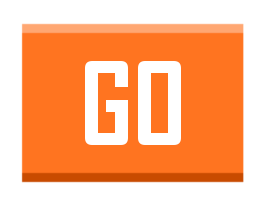
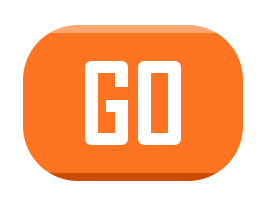
added sign out functinality, redesigned UI buttons

Changed region(s): [[0.0593, 0.1188, 0.9185, 0.9208]]

diff --git a/static/js/modules/scene/listlevels.js b/static/js/modules/scene/listlevels.js
@@ -30,6 +30,12 @@ class ListLevels extends Phaser.Scene {
         this.add.text(26, 90, "- LEVEL SELECTION -", 
             {fontFamily: 'Teko', fontSize: '40pt', color: '#000000'});
 
+        this.greeting = this.add.text(26, 30, "Welcome Back,", 
+            {fontFamily: 'Teko', fontSize: '28pt', color: '#000000'});
+
+        this.usernameText = this.add.text(26, 65, data.gameObj.animalName, 
+            {fontFamily: 'Teko', fontSize: '15pt', color: '#000000'});
+
         this.graphics.fillStyle(0xFF8040, 0.4);
         this.graphics.fillRect(18, 157, 320, 45);
 
@@ -38,11 +44,22 @@ class ListLevels extends Phaser.Scene {
 
 
         // Level Selection UI/Functionality
-        this.leftLevelBtn = this.add.image(60, 620, "left_arrow_btn").setScale(0.25).setInteractive();
-        this.rightLevelBtn = this.add.image(300, 620, "right_arrow_btn").setScale(0.25).setInteractive();
-        this.goBtn = this.add.image(180, 620, "go_btn").setScale(0.40).setInteractive();
+        this.leftLevelBtn = this.add.image(60, 600, "left_arrow_btn").setScale(0.25).setInteractive();
+        this.rightLevelBtn = this.add.image(300, 600, "right_arrow_btn").setScale(0.25).setInteractive();
+        this.goBtn = this.add.image(180, 600, "go_btn").setScale(0.40).setInteractive();
         this.backBtn = this.add.image(50, 690, "back_btn").setScale(0.30).setInteractive();
+        this.signoutBtn = this.add.image(250, 690, "signout_btn").setScale(0.5).setInteractive();
 
+        // Leaderboard UI
+        // Leaderboard will only appear as an option if you're signed in
+        if (data.gameObj.userName != "" && data.gameObj.SessionID != "") {
+            this.sessionbtn = this.add.image(290, 35, "leadererboard_btn").setScale(0.33).setInteractive();
+            this.sessionbtn.addListener("pointerup", this.bindFn(() => {
+                this.showSessionLeaderboard(data.gameObj.userName, data.gameObj.sessionID, "score", 10)
+            }));
+        }
+
+        // Left and Right
         this.leftLevelBtn.on("pointerdown", () => {
             this.browseLeft();
         });
@@ -51,14 +68,39 @@ class ListLevels extends Phaser.Scene {
             this.browseRight();
         });
 
+        // Go Button
         this.goBtn.on("pointerdown", () => {
             if (this.levels[this.curLevel].unlocked == true) {
                this.startPrelevel(this.curLevel); 
             }
         })
 
+        // Back Button
         this.backBtn.on("pointerdown", () => {
             this.backButtondown();
+        })
+
+        // Signout Button
+        this.signoutBtn.on("pointerdown", () => {
+            cdapi.signout(data.gameObj.userName, data.gameObj.sessionID).then(result => {
+                console.log(result);
+
+                // Removes leaderboard button
+                this.sessionbtn.setAlpha(0);
+                this.sessionbtn.setInteractive(false);
+
+                // changes greeting
+                this.usernameText.text = "";
+                this.greeting.text = "Not Signed In";
+
+                // Deletes their username and seesion
+                data.gameObj.session = "";
+                data.gameObj.userNamwe = "";
+
+                // removes sign out button
+                this.signoutBtn.setAlpha(0);
+                this.signoutBtn.setInteractive(0);
+            })
         })
 
         // Level Selection Descriptors
@@ -81,17 +123,6 @@ class ListLevels extends Phaser.Scene {
         this.userIcn = this.add.image(40, 30, "signin_user_icn").setScale(0.15).setTintFill(0xDCF3FD).setVisible(false);
         */
         //this.updateSignInIcon();
-
-        // Leaderboard UI
-        // Leaderboard will only appear as an option if you're signed in
-        if (data.gameObj.userName != "" && data.gameObj.SessionID != "") {
-            this.add.text(80, 60, "LEADERS", 
-            {fontFamily: 'Teko', fontSize: '16pt', color: '#000000'});
-            this.sessionbtn = this.add.image(104, 30, "leadererboard_btn").setScale(0.4).setInteractive();
-            this.sessionbtn.addListener("pointerup", this.bindFn(() => {
-                this.showSessionLeaderboard(data.gameObj.sessionID, "score", 10)
-            }));
-        }
 
         // Functionality to skip DOGMA animation, also fades in content.
         let that = this;
@@ -261,7 +292,7 @@ class ListLevels extends Phaser.Scene {
         }
     }
 
-    showSessionLeaderboard(sessionID, category, rows) {
+    showSessionLeaderboard(userName, sessionID, category, rows) {
         if (this.domOverlay) {
             return;
         }
@@ -289,6 +320,7 @@ class ListLevels extends Phaser.Scene {
                 let table = this.domOverlay.getChildByID("sessions-leaderboard-table");
     
                 this.domOverlay.getChildByID("sessions-name-displ").textContent = sessionID;
+                this.domOverlay.getChildByID("sessions-username").textContent = "Username: " + userName;
     
                 for (let i = 0; i < results.length; i++) {
                     let entry = document.createElement("tr");

diff --git a/static/js/modules/scene/loginscreen.js b/static/js/modules/scene/loginscreen.js
@@ -110,8 +110,14 @@ class LoginScreen extends Phaser.Scene {
                                this.domOverlay.getChildByID("animal-selector").value + "-" +
                                this.domOverlay.getChildByID("state-selector").value + "-" +
                                this.domOverlay.getChildByID("grade-selector").value.replace("-", "_") +  "-" +
-                               this.domOverlay.getChildByID("gender-selector").value.replace(new RegExp(" ", 'g'), "_");
+                               this.domOverlay.getChildByID("gender-selector").value.replace(new RegExp(" ", 'g'), "_") + "-" +
+                               this.domOverlay.getChildByID("login-sessionName").value;
                 username = username.toLowerCase();
+
+                // just builds the animal name
+                let animalname = this.capitalizeFirstLetter(this.domOverlay.getChildByID("adjective-selector").value) + " " +
+                                 this.capitalizeFirstLetter(this.domOverlay.getChildByID("color-selector").value) + " " +
+                                 this.capitalizeFirstLetter(this.domOverlay.getChildByID("animal-selector").value) + " ";
 
                 // retrieves session name
                 let session = this.domOverlay.getChildByID("login-sessionName").value.replace(" ", "_");
@@ -125,16 +131,30 @@ class LoginScreen extends Phaser.Scene {
                 // otherwise store this data and attempt to log in
                 data.gameObj.sessionID = session;
                 data.gameObj.userName = username;
+                data.gameObj.animalName = animalname;
 
-                cdapi.signin(username, session)
-                    .then(result => {
-                        console.log("logged in: " + result);
-                        this.scene.start("titlescreen", {skipToLevelsList: false, gameObj: data.gameObj, fadeIn: true});
-                    })
-                    .catch(result => {
-                        this.domOverlay.getChildByID("login-feedback").textContent = "Something went wrong while logging in.";
-                        console.log("failed to log in: " + result);
-                    })
+                // first check if user is already signed in
+                cdapi.isUserSignedIn(username, session)
+                .then(loggedIn => {
+                    // If they are not logged in already, they are free to log in.
+                    if (!loggedIn) {
+                        cdapi.signin(username, session)
+                        .then(result => {
+                            this.scene.start("titlescreen", {skipToLevelsList: false, gameObj: data.gameObj, fadeIn: true});
+                        })
+                        .catch(result => {
+                            this.domOverlay.getChildByID("login-feedback").textContent = "Something went wrong while logging in.";
+                            console.log("failed to log in: " + result);
+                        })
+                    // if they are logged in, they just have to wait out the timer.
+                    } else {
+                        this.domOverlay.getChildByID("login-feedback").textContent = "User is already signed in, try again in 10 minutes.";
+                    }
+                })
+                .catch(result => {
+                    this.domOverlay.getChildByID("login-feedback").textContent = "Something went wrong while logging in.";
+                    console.log("failed to log in: " + result);
+                })
             } else if (event.target.id == "skip-button") {
                 this.scene.start("titlescreen", {skipToLevelsList: false, gameObj: data.gameObj, fadeIn: true});
             }

diff --git a/static/html/sessions.html b/static/html/sessions.html
@@ -3,7 +3,7 @@
       background: #006FFF;
       border: 1px solid white;
       border-radius: 10px;
-      height: 370px;
+      height: 500px;
       margin: 20px auto 0;
       width: 320px;
     }
@@ -16,7 +16,7 @@
       display: block;
       height: 43px;
       font: 600 18px/1 'Teko', 'Open Sans', sans-serif;
-      font-size: 20px;
+      font-size: 26px;
       padding-top: 14px;
       margin: 0;
       text-align: center;
@@ -238,7 +238,8 @@
       <br>      
     -->
 
-    <h1>Leaderboard (Current Session: <strong id="sessions-name-displ">None</strong>)</h1>
+    <h1>Leaderboard (Current Session: <span id="sessions-name-displ">None</span>)</h1>
+    <p id="sessions-username">User: </p>
     <div class="leaderboard-container">
         <p>Sort By: </p>
         <select id="category-selector" class="select-css">

diff --git a/static/js/modules/game.js b/static/js/modules/game.js
@@ -214,6 +214,7 @@ class Game {
         this.game.load.image("profile_btn", "static/img/signin.png");
         this.game.load.image("credits_btn", "static/img/CreditsBtn.png");
         this.game.load.image("submit_btn", "static/img/submitBtn.png");
+        this.game.load.image("signout_btn", "static/img/signoutBtn.png");
 
         // Icons
         this.game.load.image("rotateIcon", "static/img/rotateIcon.png");

diff --git a/static/js/modules/scene/titlescreen.js b/static/js/modules/scene/titlescreen.js
@@ -233,6 +233,7 @@ class TitleScreen extends Phaser.Scene {
         this.fadeOut(this.effectDisableBtn);
         this.fadeOut(this.educationDisableBtn);
         this.fadeOut(this.creditsButton);
+        this.fadeOut(this.isblogo);
 
         // Removes interactivity from UI
         this.effectDisableBtn.setInteractive(false);
